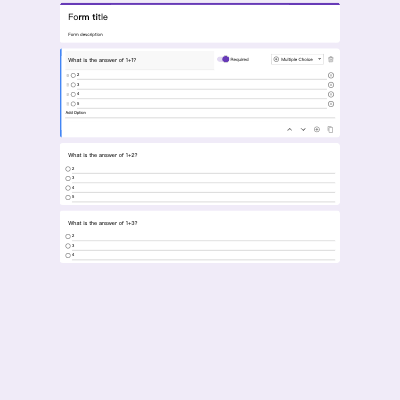
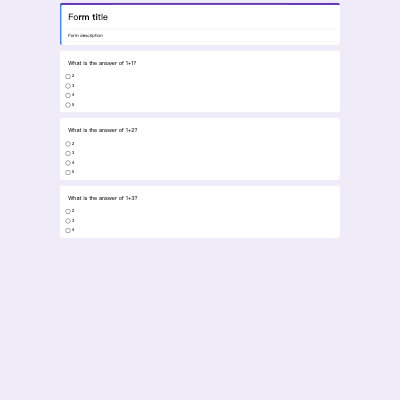
updated responsive design

diff --git a/components/Forms/SendFormCart.js b/components/Forms/SendFormCart.js
@@ -1,6 +1,6 @@
 import classes from "./SendFormCart.module.css";
 import { Close } from "../UI/Icons";
-import { useEffect, useState } from "react";
+import { useEffect, useRef, useState } from "react";
 import ChoiceBar from "../UI/ChoiceBar/ChoiceBar";
 import Button from "../UI/Button/Button";
 import HintBar from "../UI/HintBar/HintBar";
@@ -21,6 +21,7 @@ const SendFormCart = (props) => {
         timeout: null,
         text: "",
     });
+    const cartRef = useRef();
 
     const [emailContent, setEmailContent] = useState({
         to: "",
@@ -43,6 +44,18 @@ const SendFormCart = (props) => {
             };
         });
     }, []);
+
+    useEffect(() => {
+        if (!cartRef.current) return;
+        const bottom = cartRef.current.getBoundingClientRect().bottom;
+        const viewHeight =
+            window.innerHeight || document.documentElement.clientHeight;
+        if (bottom > viewHeight) {
+            cartRef.current.classList.add(classes.outscreen);
+            cartRef.current.style.height = `${viewHeight - 100}px`;
+        } else if (cartRef.current.classList.contains(classes.outscreen))
+            cartRef.current.style.height = `${viewHeight - 100}px`;
+    }, [cartRef.current]);
 
     const setHintHandler = (text) => {
         setHintText((prev) => {
@@ -103,7 +116,7 @@ const SendFormCart = (props) => {
     };
 
     return (
-        <div className={classes.container}>
+        <div className={classes.container} ref={cartRef}>
             <header>
                 <div>
                     <p>Send Form</p>

diff --git a/components/UI/Cart/TitleCart.module.css b/components/UI/Cart/TitleCart.module.css
@@ -1,15 +1,16 @@
-.cart{
+.cart {
     position: relative;
-    
+
     display: flex;
     flex-direction: column;
     justify-content: flex-start;
     align-items: flex-start;
-    
+
     margin-top: 10px;
     margin-bottom: 10px;
     padding: 10px 0 10px 0;
     border-radius: 10px;
+    min-width: 950px;
     outline: lightgrey solid 0.5px;
     box-sizing: border-box;
 
@@ -22,6 +23,13 @@
     transition: box-shadow 0.3s ease-in-out;
 }
 
+@media screen and (max-width: 950px) {
+    .cart {
+        width: 100vw;
+        min-width: 300px;
+    }
+}
+
 .borderLeft {
     position: absolute;
     top: 0;
@@ -32,7 +40,7 @@
     background-color: white;
 }
 
-.focus{
+.focus {
     background-color: #4285f4;
 }
 

diff --git a/components/profile/FormCard.module.css b/components/profile/FormCard.module.css
@@ -2,12 +2,14 @@
     display: inline-block;
     height: 260px;
     width: 200px;
+    min-width: 200px;
 
     border: 1px lightgrey solid;
     border-radius: 3px;
 
     margin-top: 20px;
-    margin-left: 20px;
+    margin-left: 10px;
+    margin-right: 10px;
 
     cursor: pointer;
 
@@ -44,7 +46,8 @@
     margin-top: 5px;
 }
 
-.card p, .card span {
+.card p,
+.card span {
     margin: 0;
     margin-left: 5px;
     user-select: none;
@@ -105,7 +108,7 @@
 
     background-color: white;
     z-index: 1001;
-    
+
     box-shadow: rgba(99, 99, 99, 0.2) 0px 2px 8px 0px;
 }
 

diff --git a/components/Settings/Settings.js b/components/Settings/Settings.js
@@ -16,7 +16,7 @@ const Settings = (props) => {
                 <DivLine width={`calc(100% - 60px)`} />
                 <div className={classes.mainOption}>
                     <EnableBar
-                        text="Make this a quiz"
+                        text="Make this a quiz (under development)"
                         description="Assign point values, set answers, and automatically provide feedback"
                         enable={props.options.quiz}
                         onChange={(status) => {

diff --git a/components/UI/Cart/Cart.module.css b/components/UI/Cart/Cart.module.css
@@ -1,11 +1,11 @@
-.cart{
+.cart {
     position: relative;
-    
+
     display: flex;
     flex-direction: column;
     justify-content: flex-start;
     align-items: flex-start;
-    
+
     margin-top: 10px;
     margin-bottom: 10px;
     padding: 10px 0 10px 0;
@@ -18,6 +18,13 @@
     min-width: 950px;
 
     transition: box-shadow 0.3s ease-in-out;
+}
+
+@media screen and (max-width: 950px) {
+    .cart {
+        width: 100vw;
+        min-width: 300px;
+    }
 }
 
 .error {

diff --git a/components/Forms/SendFormCart.module.css b/components/Forms/SendFormCart.module.css
@@ -3,7 +3,7 @@
     top: 50px;
     display: flex;
     align-items: center;
-    justify-content: center;
+    justify-content: flex-start;
     flex-direction: column;
 
     min-width: 400px;
@@ -16,6 +16,11 @@
 
     border-radius: 8px;
     background-color: white;
+    overflow: scroll;
+}
+
+.container.outscreen {
+    max-height: max-content;
     overflow: scroll;
 }
 
